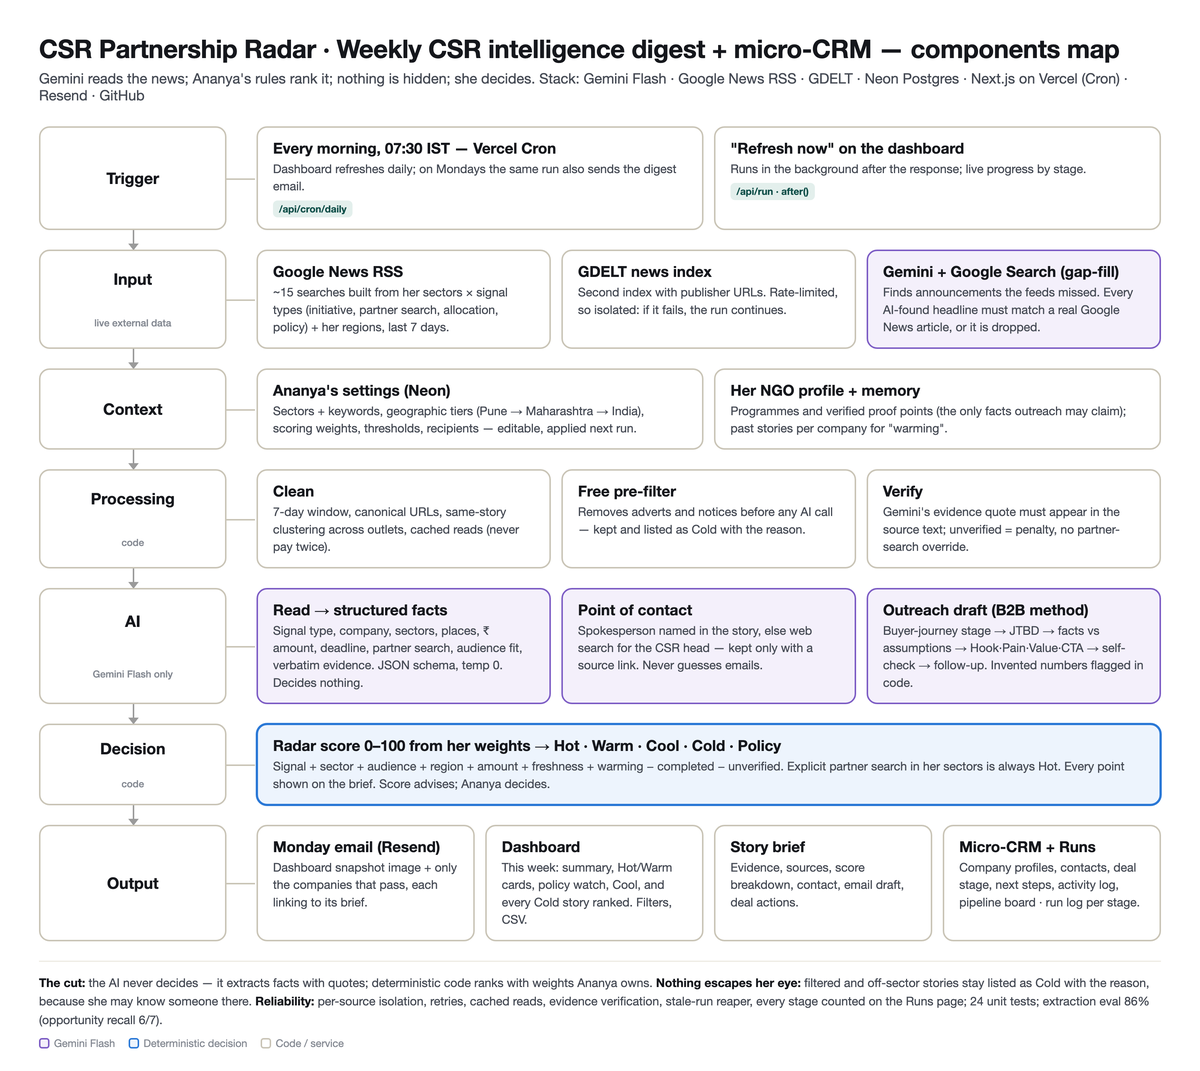
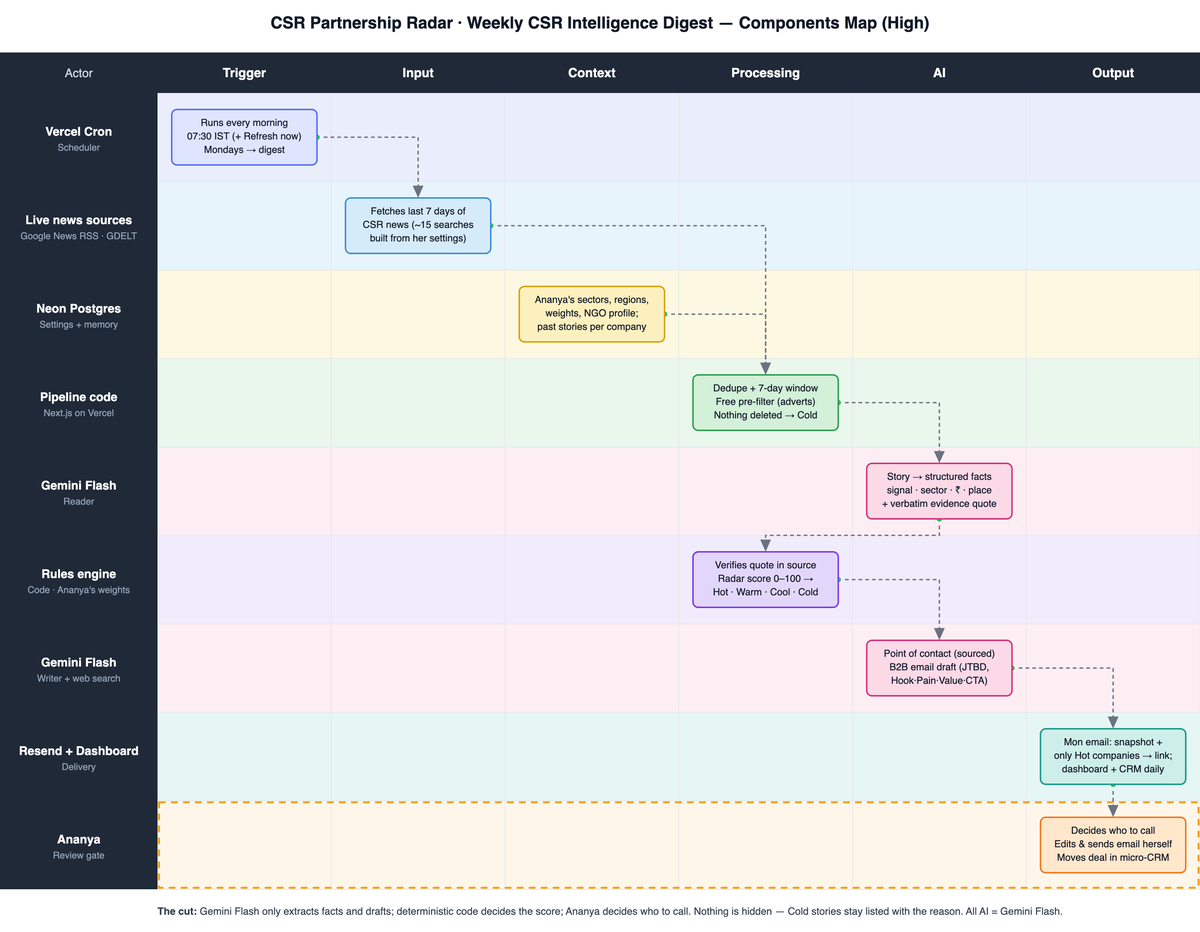
Components map in swimlane style (actors x Trigger/Input/Context/Processing/AI/Output)

diff --git a/docs/components-map.html b/docs/components-map.html
@@ -1,108 +1,112 @@
-<!doctype html>
-<html lang="en">
-<head>
-<meta charset="utf-8">
-<title>CSR Radar — Components Map</title>
-<style>
-  :root { --ink:#15171c; --ink2:#464b55; --muted:#858a93; --line:#c9c4b6; --paper:#ffffff; --brand:#0d4d47; --brandsoft:#e3efec; --hot:#c2410c; }
-  * { box-sizing: border-box; }
-  body { margin: 0; background: var(--paper); font-family: -apple-system, "Helvetica Neue", Arial, sans-serif; color: var(--ink); }
-  .wrap { width: 1600px; padding: 44px 52px 36px; }
-  h1 { font-size: 34px; margin: 0; letter-spacing: -0.01em; }
-  .sub { font-size: 19px; color: var(--ink2); margin: 8px 0 30px; }
-  .row { display: grid; grid-template-columns: 250px 1fr; gap: 40px; position: relative; margin-bottom: 26px; }
-  .row::before { content: ""; position: absolute; left: 125px; top: 100%; height: 26px; border-left: 2px solid #9a9a9a; }
-  .row.last::before { display: none; }
-  .row::after { content: ""; position: absolute; left: 119px; top: calc(100% + 18px); border: 7px solid transparent; border-top: 9px solid #9a9a9a; }
-  .row.last::after { display: none; }
-  .tag { border: 2px solid var(--line); border-radius: 14px; display: grid; place-items: center; font-weight: 700; font-size: 21px; min-height: 92px; position: relative; text-align: center; padding: 6px; }
-  .tag small { display: block; font-weight: 500; font-size: 13px; color: var(--muted); margin-top: 2px; }
-  .tag::after { content: ""; position: absolute; right: -40px; top: 50%; width: 40px; border-top: 2px solid var(--line); }
-  .boxes { display: grid; gap: 14px; }
-  .box { border: 2px solid var(--line); border-radius: 14px; padding: 15px 20px; }
-  .box b { display: block; font-size: 20px; margin-bottom: 4px; }
-  .box span { font-size: 16px; color: var(--ink2); line-height: 1.45; }
-  .box .tech { display: inline-block; margin-top: 7px; font-size: 13px; font-weight: 600; color: var(--brand); background: var(--brandsoft); border-radius: 6px; padding: 2px 8px; margin-right: 6px; }
-  .hl { border-color: #2a78d6; background: #edf4fd; box-shadow: 0 0 0 1px #2a78d6; }
-  .ai { border-color: #7c5cc4; background: #f4f0fb; }
-  .cols3 { grid-template-columns: repeat(3, 1fr); }
-  .cols4 { grid-template-columns: repeat(4, 1fr); }
-  .cols2 { grid-template-columns: repeat(2, 1fr); }
-  .foot { margin-top: 26px; font-size: 16px; color: var(--ink2); border-top: 1px solid #e5e1d6; padding-top: 16px; line-height: 1.55; }
-  .foot b { color: var(--ink); }
-  .legend { display: flex; gap: 18px; margin-top: 8px; font-size: 14px; color: var(--muted); }
-  .sw { display: inline-block; width: 14px; height: 14px; border-radius: 4px; vertical-align: -2px; margin-right: 6px; border: 2px solid; }
-</style>
-</head>
-<body>
-<div class="wrap">
-  <h1>CSR Partnership Radar · Weekly CSR intelligence digest + micro-CRM — components map</h1>
-  <div class="sub">Gemini reads the news; Ananya's rules rank it; nothing is hidden; she decides. Stack: Gemini Flash · Google News RSS · GDELT · Neon Postgres · Next.js on Vercel (Cron) · Resend · GitHub</div>
-
-  <div class="row">
-    <div class="tag">Trigger</div>
-    <div class="boxes cols2">
-      <div class="box"><b>Every morning, 07:30 IST — Vercel Cron</b><span>Dashboard refreshes daily; on Mondays the same run also sends the digest email.</span><br><span class="tech">/api/cron/daily</span></div>
-      <div class="box"><b>"Refresh now" on the dashboard</b><span>Runs in the background after the response; live progress by stage.</span><br><span class="tech">/api/run · after()</span></div>
-    </div>
-  </div>
-
-  <div class="row">
-    <div class="tag">Input<small>live external data</small></div>
-    <div class="boxes cols3">
-      <div class="box"><b>Google News RSS</b><span>~15 searches built from her sectors × signal types (initiative, partner search, allocation, policy) + her regions, last 7 days.</span></div>
-      <div class="box"><b>GDELT news index</b><span>Second index with publisher URLs. Rate-limited, so isolated: if it fails, the run continues.</span></div>
-      <div class="box ai"><b>Gemini + Google Search (gap-fill)</b><span>Finds announcements the feeds missed. Every AI-found headline must match a real Google News article, or it is dropped.</span></div>
-    </div>
-  </div>
-
-  <div class="row">
-    <div class="tag">Context</div>
-    <div class="boxes cols2">
-      <div class="box"><b>Ananya's settings (Neon)</b><span>Sectors + keywords, geographic tiers (Pune → Maharashtra → India), scoring weights, thresholds, recipients — editable, applied next run.</span></div>
-      <div class="box"><b>Her NGO profile + memory</b><span>Programmes and verified proof points (the only facts outreach may claim); past stories per company for "warming".</span></div>
-    </div>
-  </div>
-
-  <div class="row">
-    <div class="tag">Processing<small>code</small></div>
-    <div class="boxes cols3">
-      <div class="box"><b>Clean</b><span>7-day window, canonical URLs, same-story clustering across outlets, cached reads (never pay twice).</span></div>
-      <div class="box"><b>Free pre-filter</b><span>Removes adverts and notices before any AI call — kept and listed as Cold with the reason.</span></div>
-      <div class="box"><b>Verify</b><span>Gemini's evidence quote must appear in the source text; unverified = penalty, no partner-search override.</span></div>
-    </div>
-  </div>
-
-  <div class="row">
-    <div class="tag">AI<small>Gemini Flash only</small></div>
-    <div class="boxes cols3">
-      <div class="box ai"><b>Read → structured facts</b><span>Signal type, company, sectors, places, ₹ amount, deadline, partner search, audience fit, verbatim evidence. JSON schema, temp 0. Decides nothing.</span></div>
-      <div class="box ai"><b>Point of contact</b><span>Spokesperson named in the story, else web search for the CSR head — kept only with a source link. Never guesses emails.</span></div>
-      <div class="box ai"><b>Outreach draft (B2B method)</b><span>Buyer-journey stage → JTBD → facts vs assumptions → Hook·Pain·Value·CTA → self-check → follow-up. Invented numbers flagged in code.</span></div>
-    </div>
-  </div>
-
-  <div class="row">
-    <div class="tag">Decision<small>code</small></div>
-    <div class="boxes">
-      <div class="box hl"><b>Radar score 0–100 from her weights → Hot · Warm · Cool · Cold · Policy</b><span>Signal + sector + audience + region + amount + freshness + warming − completed − unverified. Explicit partner search in her sectors is always Hot. Every point shown on the brief. Score advises; Ananya decides.</span></div>
-    </div>
-  </div>
-
-  <div class="row last">
-    <div class="tag">Output</div>
-    <div class="boxes cols4">
-      <div class="box"><b>Monday email (Resend)</b><span>Dashboard snapshot image + only the companies that pass, each linking to its brief.</span></div>
-      <div class="box"><b>Dashboard</b><span>This week: summary, Hot/Warm cards, policy watch, Cool, and every Cold story ranked. Filters, CSV.</span></div>
-      <div class="box"><b>Story brief</b><span>Evidence, sources, score breakdown, contact, email draft, deal actions.</span></div>
-      <div class="box"><b>Micro-CRM + Runs</b><span>Company profiles, contacts, deal stage, next steps, activity log, pipeline board · run log per stage.</span></div>
-    </div>
-  </div>
-
-  <div class="foot">
-    <b>The cut:</b> the AI never decides — it extracts facts with quotes; deterministic code ranks with weights Ananya owns. <b>Nothing escapes her eye:</b> filtered and off-sector stories stay listed as Cold with the reason, because she may know someone there. <b>Reliability:</b> per-source isolation, retries, cached reads, evidence verification, stale-run reaper, every stage counted on the Runs page; 24 unit tests; extraction eval 86% (opportunity recall 6/7).
-    <div class="legend"><span><span class="sw" style="border-color:#7c5cc4;background:#f4f0fb"></span>Gemini Flash</span><span><span class="sw" style="border-color:#2a78d6;background:#edf4fd"></span>Deterministic decision</span><span><span class="sw" style="border-color:#c9c4b6"></span>Code / service</span></div>
-  </div>
-</div>
-</body>
-</html>
+<!doctype html><html><head><meta charset="utf-8"><title>CSR Radar — Components Map</title><style>body{margin:0;background:#fff}</style></head><body><svg xmlns="http://www.w3.org/2000/svg" width="1600" height="1246" viewBox="0 0 1600 1246" font-family="Helvetica, Arial, sans-serif">
+<defs><marker id="ar" markerWidth="10" markerHeight="10" refX="8" refY="5" orient="auto"><path d="M0,1 L9,5 L0,9 z" fill="#6b7280"/></marker></defs>
+<rect width="1600" height="1246" fill="#ffffff"/>
+<text x="800.0" y="38" text-anchor="middle" font-size="22" font-weight="700" fill="#111827">CSR Partnership Radar · Weekly CSR Intelligence Digest — Components Map (High)</text>
+<rect x="210" y="124" width="1390" height="118" fill="#eaeefc"/>
+<rect x="210" y="242" width="1390" height="118" fill="#e8f4fb"/>
+<rect x="210" y="360" width="1390" height="118" fill="#fdf8e2"/>
+<rect x="210" y="478" width="1390" height="118" fill="#eaf7ec"/>
+<rect x="210" y="596" width="1390" height="118" fill="#fdeef4"/>
+<rect x="210" y="714" width="1390" height="118" fill="#f1ecfb"/>
+<rect x="210" y="832" width="1390" height="118" fill="#fdeef4"/>
+<rect x="210" y="950" width="1390" height="118" fill="#e6f6f4"/>
+<rect x="210" y="1068" width="1390" height="118" fill="#fff6ea"/>
+<line x1="210.0" y1="70" x2="210.0" y2="1186" stroke="#e5e7eb" stroke-width="1"/>
+<line x1="441.66666666666663" y1="70" x2="441.66666666666663" y2="1186" stroke="#e5e7eb" stroke-width="1"/>
+<line x1="673.3333333333333" y1="70" x2="673.3333333333333" y2="1186" stroke="#e5e7eb" stroke-width="1"/>
+<line x1="905.0" y1="70" x2="905.0" y2="1186" stroke="#e5e7eb" stroke-width="1"/>
+<line x1="1136.6666666666665" y1="70" x2="1136.6666666666665" y2="1186" stroke="#e5e7eb" stroke-width="1"/>
+<line x1="1368.3333333333333" y1="70" x2="1368.3333333333333" y2="1186" stroke="#e5e7eb" stroke-width="1"/>
+<line x1="1600.0" y1="70" x2="1600.0" y2="1186" stroke="#e5e7eb" stroke-width="1"/>
+<line x1="210" y1="124" x2="1600" y2="124" stroke="#e5e7eb" stroke-width="1"/>
+<line x1="210" y1="242" x2="1600" y2="242" stroke="#e5e7eb" stroke-width="1"/>
+<line x1="210" y1="360" x2="1600" y2="360" stroke="#e5e7eb" stroke-width="1"/>
+<line x1="210" y1="478" x2="1600" y2="478" stroke="#e5e7eb" stroke-width="1"/>
+<line x1="210" y1="596" x2="1600" y2="596" stroke="#e5e7eb" stroke-width="1"/>
+<line x1="210" y1="714" x2="1600" y2="714" stroke="#e5e7eb" stroke-width="1"/>
+<line x1="210" y1="832" x2="1600" y2="832" stroke="#e5e7eb" stroke-width="1"/>
+<line x1="210" y1="950" x2="1600" y2="950" stroke="#e5e7eb" stroke-width="1"/>
+<line x1="210" y1="1068" x2="1600" y2="1068" stroke="#e5e7eb" stroke-width="1"/>
+<line x1="210" y1="1186" x2="1600" y2="1186" stroke="#e5e7eb" stroke-width="1"/>
+<rect x="0" y="70" width="1600" height="54" fill="#1f2937"/>
+<rect x="0" y="124" width="210" height="1062" fill="#1f2937"/>
+<text x="105.0" y="103.0" text-anchor="middle" font-size="16" fill="#cbd5e1">Actor</text>
+<text x="325.8333333333333" y="103.0" text-anchor="middle" font-size="17" font-weight="700" fill="#ffffff">Trigger</text>
+<text x="557.5" y="103.0" text-anchor="middle" font-size="17" font-weight="700" fill="#ffffff">Input</text>
+<text x="789.1666666666666" y="103.0" text-anchor="middle" font-size="17" font-weight="700" fill="#ffffff">Context</text>
+<text x="1020.8333333333334" y="103.0" text-anchor="middle" font-size="17" font-weight="700" fill="#ffffff">Processing</text>
+<text x="1252.4999999999998" y="103.0" text-anchor="middle" font-size="17" font-weight="700" fill="#ffffff">AI</text>
+<text x="1484.1666666666665" y="103.0" text-anchor="middle" font-size="17" font-weight="700" fill="#ffffff">Output</text>
+<text x="105.0" y="181.0" text-anchor="middle" font-size="16" font-weight="700" fill="#ffffff">Vercel Cron</text>
+<text x="105.0" y="201.0" text-anchor="middle" font-size="12.5" fill="#94a3b8">Scheduler</text>
+<text x="105.0" y="299.0" text-anchor="middle" font-size="16" font-weight="700" fill="#ffffff">Live news sources</text>
+<text x="105.0" y="319.0" text-anchor="middle" font-size="12.5" fill="#94a3b8">Google News RSS · GDELT</text>
+<text x="105.0" y="417.0" text-anchor="middle" font-size="16" font-weight="700" fill="#ffffff">Neon Postgres</text>
+<text x="105.0" y="437.0" text-anchor="middle" font-size="12.5" fill="#94a3b8">Settings + memory</text>
+<text x="105.0" y="535.0" text-anchor="middle" font-size="16" font-weight="700" fill="#ffffff">Pipeline code</text>
+<text x="105.0" y="555.0" text-anchor="middle" font-size="12.5" fill="#94a3b8">Next.js on Vercel</text>
+<text x="105.0" y="653.0" text-anchor="middle" font-size="16" font-weight="700" fill="#ffffff">Gemini Flash</text>
+<text x="105.0" y="673.0" text-anchor="middle" font-size="12.5" fill="#94a3b8">Reader</text>
+<text x="105.0" y="771.0" text-anchor="middle" font-size="16" font-weight="700" fill="#ffffff">Rules engine</text>
+<text x="105.0" y="791.0" text-anchor="middle" font-size="12.5" fill="#94a3b8">Code · Ananya&#x27;s weights</text>
+<text x="105.0" y="889.0" text-anchor="middle" font-size="16" font-weight="700" fill="#ffffff">Gemini Flash</text>
+<text x="105.0" y="909.0" text-anchor="middle" font-size="12.5" fill="#94a3b8">Writer + web search</text>
+<text x="105.0" y="1007.0" text-anchor="middle" font-size="16" font-weight="700" fill="#ffffff">Resend + Dashboard</text>
+<text x="105.0" y="1027.0" text-anchor="middle" font-size="12.5" fill="#94a3b8">Delivery</text>
+<text x="105.0" y="1125.0" text-anchor="middle" font-size="16" font-weight="700" fill="#ffffff">Ananya</text>
+<text x="105.0" y="1145.0" text-anchor="middle" font-size="12.5" fill="#94a3b8">Review gate</text>
+<rect x="212" y="1070" width="1386" height="114" fill="none" stroke="#f59e0b" stroke-width="2.5" stroke-dasharray="9 7"/>
+<path d="M422.66666666666663,183.0 L557.5,183.0 L557.5,262.0" fill="none" stroke="#6b7280" stroke-width="1.8" stroke-dasharray="5 4" marker-end="url(#ar)"/>
+<circle cx="422.66666666666663" cy="183.0" r="4.5" fill="#22c55e" stroke="#fff" stroke-width="1.5"/>
+<path d="M654.3333333333334,301.0 L1020.8333333333334,301.0 L1020.8333333333334,498.0" fill="none" stroke="#6b7280" stroke-width="1.8" stroke-dasharray="5 4" marker-end="url(#ar)"/>
+<circle cx="654.3333333333334" cy="301.0" r="4.5" fill="#22c55e" stroke="#fff" stroke-width="1.5"/>
+<path d="M886.0,419.0 L1020.8333333333334,419.0 L1020.8333333333334,498.0" fill="none" stroke="#6b7280" stroke-width="1.8" stroke-dasharray="5 4" marker-end="url(#ar)"/>
+<circle cx="886.0" cy="419.0" r="4.5" fill="#22c55e" stroke="#fff" stroke-width="1.5"/>
+<path d="M1117.6666666666667,537.0 L1252.4999999999998,537.0 L1252.4999999999998,616.0" fill="none" stroke="#6b7280" stroke-width="1.8" stroke-dasharray="5 4" marker-end="url(#ar)"/>
+<circle cx="1117.6666666666667" cy="537.0" r="4.5" fill="#22c55e" stroke="#fff" stroke-width="1.5"/>
+<path d="M1252.4999999999998,692.0 L1252.4999999999998,714.0 L1020.8333333333334,714.0 L1020.8333333333334,734.0" fill="none" stroke="#6b7280" stroke-width="1.8" stroke-dasharray="5 4" marker-end="url(#ar)"/>
+<circle cx="1252.4999999999998" cy="692.0" r="4.5" fill="#22c55e" stroke="#fff" stroke-width="1.5"/>
+<path d="M1117.6666666666667,773.0 L1252.4999999999998,773.0 L1252.4999999999998,852.0" fill="none" stroke="#6b7280" stroke-width="1.8" stroke-dasharray="5 4" marker-end="url(#ar)"/>
+<circle cx="1117.6666666666667" cy="773.0" r="4.5" fill="#22c55e" stroke="#fff" stroke-width="1.5"/>
+<path d="M1349.333333333333,891.0 L1484.1666666666665,891.0 L1484.1666666666665,970.0" fill="none" stroke="#6b7280" stroke-width="1.8" stroke-dasharray="5 4" marker-end="url(#ar)"/>
+<circle cx="1349.333333333333" cy="891.0" r="4.5" fill="#22c55e" stroke="#fff" stroke-width="1.5"/>
+<path d="M1484.1666666666665,1046.0 L1484.1666666666665,1088.0" fill="none" stroke="#6b7280" stroke-width="1.8" stroke-dasharray="5 4" marker-end="url(#ar)"/>
+<circle cx="1484.1666666666665" cy="1046.0" r="4.5" fill="#22c55e" stroke="#fff" stroke-width="1.5"/>
+<rect x="229.0" y="146.0" width="193.66666666666666" height="74" rx="7" fill="#dfe5ff" stroke="#5b6cf0" stroke-width="2"/>
+<text x="325.8333333333333" y="168.0" text-anchor="middle" font-size="13" fill="#111827">Runs every morning</text>
+<text x="325.8333333333333" y="186.0" text-anchor="middle" font-size="13" fill="#111827">07:30 IST (+ Refresh now)</text>
+<text x="325.8333333333333" y="204.0" text-anchor="middle" font-size="13" fill="#111827">Mondays → digest</text>
+<rect x="460.6666666666667" y="264.0" width="193.66666666666666" height="74" rx="7" fill="#d6ebfa" stroke="#3b8fd6" stroke-width="2"/>
+<text x="557.5" y="286.0" text-anchor="middle" font-size="13" fill="#111827">Fetches last 7 days of</text>
+<text x="557.5" y="304.0" text-anchor="middle" font-size="13" fill="#111827">CSR news (~15 searches</text>
+<text x="557.5" y="322.0" text-anchor="middle" font-size="13" fill="#111827">built from her settings)</text>
+<rect x="692.3333333333333" y="382.0" width="193.66666666666666" height="74" rx="7" fill="#fdf0bf" stroke="#d9a400" stroke-width="2"/>
+<text x="789.1666666666666" y="404.0" text-anchor="middle" font-size="13" fill="#111827">Ananya&#x27;s sectors, regions,</text>
+<text x="789.1666666666666" y="422.0" text-anchor="middle" font-size="13" fill="#111827">weights, NGO profile;</text>
+<text x="789.1666666666666" y="440.0" text-anchor="middle" font-size="13" fill="#111827">past stories per company</text>
+<rect x="924.0" y="500.0" width="193.66666666666666" height="74" rx="7" fill="#d3f0d8" stroke="#2f9e52" stroke-width="2"/>
+<text x="1020.8333333333334" y="522.0" text-anchor="middle" font-size="13" fill="#111827">Dedupe + 7-day window</text>
+<text x="1020.8333333333334" y="540.0" text-anchor="middle" font-size="13" fill="#111827">Free pre-filter (adverts)</text>
+<text x="1020.8333333333334" y="558.0" text-anchor="middle" font-size="13" fill="#111827">Nothing deleted → Cold</text>
+<rect x="1155.6666666666665" y="618.0" width="193.66666666666666" height="74" rx="7" fill="#fbd9e7" stroke="#d6337a" stroke-width="2"/>
+<text x="1252.4999999999998" y="640.0" text-anchor="middle" font-size="13" fill="#111827">Story → structured facts</text>
+<text x="1252.4999999999998" y="658.0" text-anchor="middle" font-size="13" fill="#111827">signal · sector · ₹ · place</text>
+<text x="1252.4999999999998" y="676.0" text-anchor="middle" font-size="13" fill="#111827">+ verbatim evidence quote</text>
+<rect x="924.0" y="736.0" width="193.66666666666666" height="74" rx="7" fill="#e2d7fb" stroke="#7c3aed" stroke-width="2"/>
+<text x="1020.8333333333334" y="758.0" text-anchor="middle" font-size="13" fill="#111827">Verifies quote in source</text>
+<text x="1020.8333333333334" y="776.0" text-anchor="middle" font-size="13" fill="#111827">Radar score 0–100 →</text>
+<text x="1020.8333333333334" y="794.0" text-anchor="middle" font-size="13" fill="#111827">Hot · Warm · Cool · Cold</text>
+<rect x="1155.6666666666665" y="854.0" width="193.66666666666666" height="74" rx="7" fill="#fbd9e7" stroke="#d6337a" stroke-width="2"/>
+<text x="1252.4999999999998" y="876.0" text-anchor="middle" font-size="13" fill="#111827">Point of contact (sourced)</text>
+<text x="1252.4999999999998" y="894.0" text-anchor="middle" font-size="13" fill="#111827">B2B email draft (JTBD,</text>
+<text x="1252.4999999999998" y="912.0" text-anchor="middle" font-size="13" fill="#111827">Hook·Pain·Value·CTA)</text>
+<rect x="1387.3333333333333" y="972.0" width="193.66666666666666" height="74" rx="7" fill="#cdeee9" stroke="#1a9a8a" stroke-width="2"/>
+<text x="1484.1666666666665" y="994.0" text-anchor="middle" font-size="13" fill="#111827">Mon email: snapshot +</text>
+<text x="1484.1666666666665" y="1012.0" text-anchor="middle" font-size="13" fill="#111827">only Hot companies → link;</text>
+<text x="1484.1666666666665" y="1030.0" text-anchor="middle" font-size="13" fill="#111827">dashboard + CRM daily</text>
+<rect x="1387.3333333333333" y="1090.0" width="193.66666666666666" height="74" rx="7" fill="#ffe7cc" stroke="#f07a1a" stroke-width="2"/>
+<text x="1484.1666666666665" y="1112.0" text-anchor="middle" font-size="13" fill="#111827">Decides who to call</text>
+<text x="1484.1666666666665" y="1130.0" text-anchor="middle" font-size="13" fill="#111827">Edits &amp; sends email herself</text>
+<text x="1484.1666666666665" y="1148.0" text-anchor="middle" font-size="13" fill="#111827">Moves deal in micro-CRM</text>
+<text x="210" y="1220" font-size="13.5" fill="#374151"><tspan font-weight="700">The cut:</tspan> Gemini Flash only extracts facts and drafts; deterministic code decides the score; Ananya decides who to call. Nothing is hidden — Cold stories stay listed with the reason. All AI = Gemini Flash.</tspan></text>
+</svg></body></html>

diff --git a/docs/components-map.py b/docs/components-map.py
@@ -1,0 +1,78 @@
+import html
+W=1600; AX=210; COLS=["Trigger","Input","Context","Processing","AI","Output"]; CW=(W-AX)/6
+HDR=54; RH=118; TOP=70
+rows=[
+ # actor, role, col, lines, band, fill, stroke
+ ("Vercel Cron","Scheduler",0,["Runs every morning","07:30 IST (+ Refresh now)","Mondays → digest"],"#eaeefc","#dfe5ff","#5b6cf0"),
+ ("Live news sources","Google News RSS · GDELT",1,["Fetches last 7 days of","CSR news (~15 searches","built from her settings)"],"#e8f4fb","#d6ebfa","#3b8fd6"),
+ ("Neon Postgres","Settings + memory",2,["Ananya's sectors, regions,","weights, NGO profile;","past stories per company"],"#fdf8e2","#fdf0bf","#d9a400"),
+ ("Pipeline code","Next.js on Vercel",3,["Dedupe + 7-day window","Free pre-filter (adverts)","Nothing deleted → Cold"],"#eaf7ec","#d3f0d8","#2f9e52"),
+ ("Gemini Flash","Reader",4,["Story → structured facts","signal · sector · ₹ · place","+ verbatim evidence quote"],"#fdeef4","#fbd9e7","#d6337a"),
+ ("Rules engine","Code · Ananya's weights",3,["Verifies quote in source","Radar score 0–100 →","Hot · Warm · Cool · Cold"],"#f1ecfb","#e2d7fb","#7c3aed"),
+ ("Gemini Flash","Writer + web search",4,["Point of contact (sourced)","B2B email draft (JTBD,","Hook·Pain·Value·CTA)"],"#fdeef4","#fbd9e7","#d6337a"),
+ ("Resend + Dashboard","Delivery",5,["Mon email: snapshot +","only Hot companies → link;","dashboard + CRM daily"],"#e6f6f4","#cdeee9","#1a9a8a"),
+ ("Ananya","Review gate",5,["Decides who to call","Edits & sends email herself","Moves deal in micro-CRM"],"#fff6ea","#ffe7cc","#f07a1a"),
+]
+H=TOP+HDR+RH*len(rows)+20
+BW=CW-38; BH=74
+def cx(c): return AX+CW*c+CW/2
+def ry(r): return TOP+HDR+RH*r+RH/2
+out=[f'<svg xmlns="http://www.w3.org/2000/svg" width="{W}" height="{H+40}" viewBox="0 0 {W} {H+40}" font-family="Helvetica, Arial, sans-serif">',
+ '<defs><marker id="ar" markerWidth="10" markerHeight="10" refX="8" refY="5" orient="auto"><path d="M0,1 L9,5 L0,9 z" fill="#6b7280"/></marker></defs>',
+ f'<rect width="{W}" height="{H+40}" fill="#ffffff"/>',
+ f'<text x="{W/2}" y="38" text-anchor="middle" font-size="22" font-weight="700" fill="#111827">CSR Partnership Radar · Weekly CSR Intelligence Digest — Components Map (High)</text>']
+# bands
+for i,r in enumerate(rows):
+  y=TOP+HDR+RH*i
+  out.append(f'<rect x="{AX}" y="{y}" width="{W-AX}" height="{RH}" fill="{r[4]}"/>')
+# column grid
+for c in range(7):
+  x=AX+CW*c
+  out.append(f'<line x1="{x}" y1="{TOP}" x2="{x}" y2="{TOP+HDR+RH*len(rows)}" stroke="#e5e7eb" stroke-width="1"/>')
+for i in range(len(rows)+1):
+  y=TOP+HDR+RH*i
+  out.append(f'<line x1="{AX}" y1="{y}" x2="{W}" y2="{y}" stroke="#e5e7eb" stroke-width="1"/>')
+# header + actor col
+out.append(f'<rect x="0" y="{TOP}" width="{W}" height="{HDR}" fill="#1f2937"/>')
+out.append(f'<rect x="0" y="{TOP+HDR}" width="{AX}" height="{RH*len(rows)}" fill="#1f2937"/>')
+out.append(f'<text x="{AX/2}" y="{TOP+HDR/2+6}" text-anchor="middle" font-size="16" fill="#cbd5e1">Actor</text>')
+for c,n in enumerate(COLS):
+  out.append(f'<text x="{cx(c)}" y="{TOP+HDR/2+6}" text-anchor="middle" font-size="17" font-weight="700" fill="#ffffff">{n}</text>')
+for i,r in enumerate(rows):
+  out.append(f'<text x="{AX/2}" y="{ry(i)-2}" text-anchor="middle" font-size="16" font-weight="700" fill="#ffffff">{html.escape(r[0])}</text>')
+  out.append(f'<text x="{AX/2}" y="{ry(i)+18}" text-anchor="middle" font-size="12.5" fill="#94a3b8">{html.escape(r[1])}</text>')
+# review gate dashed border
+gy=TOP+HDR+RH*(len(rows)-1)
+out.append(f'<rect x="{AX+2}" y="{gy+2}" width="{W-AX-4}" height="{RH-4}" fill="none" stroke="#f59e0b" stroke-width="2.5" stroke-dasharray="9 7"/>')
+# connectors: (from row, to row) elbow from right-mid of source → right, then down to top of target
+links=[(0,1),(1,3),(2,3),(3,4),(4,5),(5,6),(6,7),(7,8)]
+for a,b in links:
+  ca,cb=rows[a][2],rows[b][2]
+  x1=cx(ca)+BW/2; y1=ry(a)
+  x2=cx(cb); y2=ry(b)-BH/2
+  if cb>ca or (cb==ca):
+    if cb==ca:
+      # same column: from bottom-mid down
+      x1=cx(ca); y1=ry(a)+BH/2
+      d=f'M{x1},{y1} L{x2},{y2-2}'
+    else:
+      d=f'M{x1},{y1} L{x2},{y1} L{x2},{y2-2}'
+  else:
+    # target is left: leave from bottom, go down to mid-gap, left, then down
+    x1=cx(ca); y1=ry(a)+BH/2; mid=(y1+y2)/2
+    d=f'M{x1},{y1} L{x1},{mid} L{x2},{mid} L{x2},{y2-2}'
+  out.append(f'<path d="{d}" fill="none" stroke="#6b7280" stroke-width="1.8" stroke-dasharray="5 4" marker-end="url(#ar)"/>')
+  out.append(f'<circle cx="{x1}" cy="{y1}" r="4.5" fill="#22c55e" stroke="#fff" stroke-width="1.5"/>')
+# boxes
+for i,r in enumerate(rows):
+  x=cx(r[2])-BW/2; y=ry(i)-BH/2
+  out.append(f'<rect x="{x}" y="{y}" width="{BW}" height="{BH}" rx="7" fill="{r[5]}" stroke="{r[6]}" stroke-width="2"/>')
+  for k,line in enumerate(r[3]):
+    out.append(f'<text x="{cx(r[2])}" y="{y+22+k*18}" text-anchor="middle" font-size="13" fill="#111827">{html.escape(line)}</text>')
+# footer legend
+fy=H+14
+out.append(f'<text x="{AX}" y="{fy}" font-size="13.5" fill="#374151"><tspan font-weight="700">The cut:</tspan> Gemini Flash only extracts facts and drafts; deterministic code decides the score; Ananya decides who to call. Nothing is hidden — Cold stories stay listed with the reason. All AI = Gemini Flash.</tspan></text>')
+out.append('</svg>')
+svg="\n".join(out)
+open("components-map.html","w").write(f'<!doctype html><html><head><meta charset="utf-8"><title>CSR Radar — Components Map</title><style>body{{margin:0;background:#fff}}</style></head><body>{svg}</body></html>')
+print(W,H+40)
